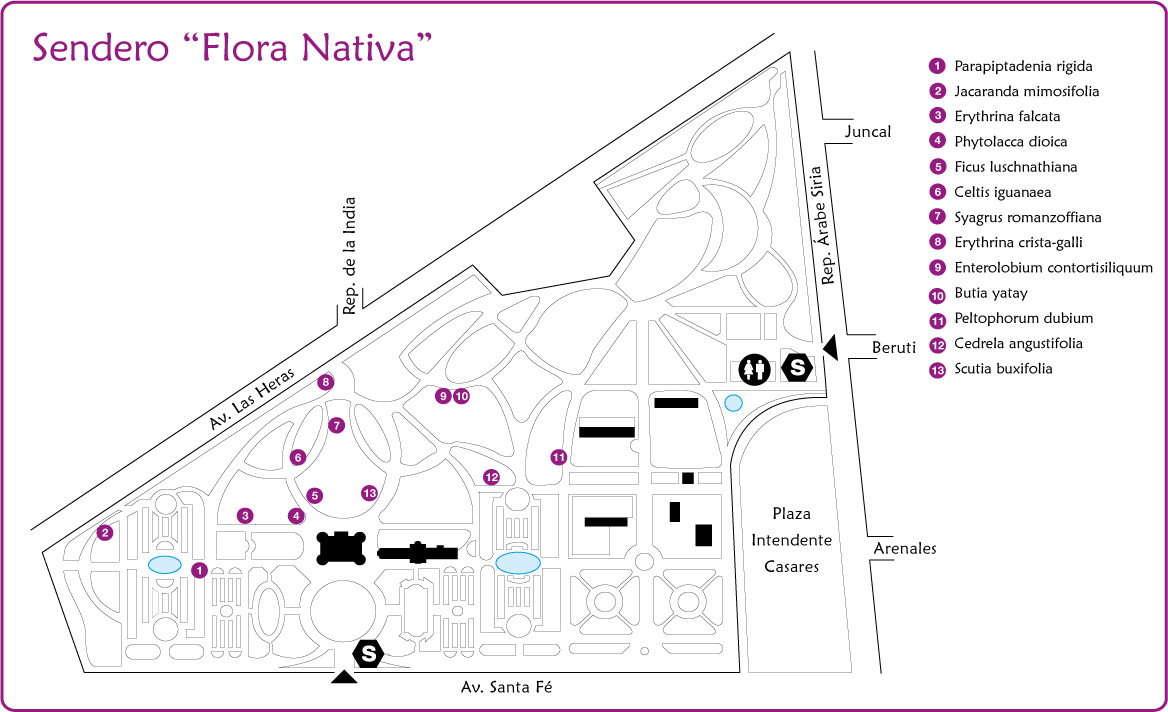
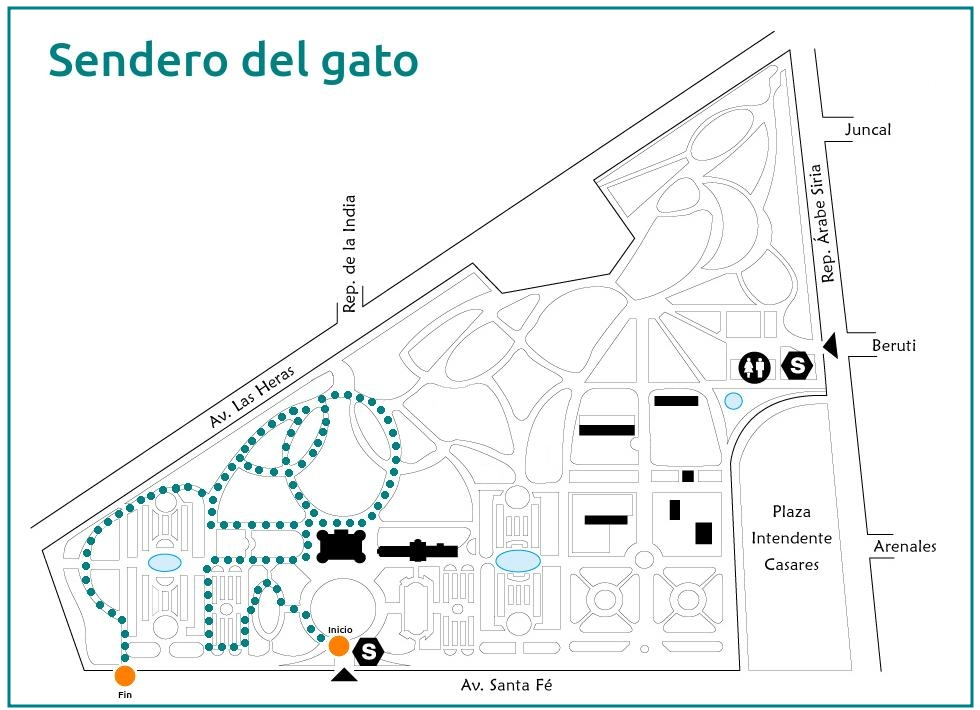
Modifica estilos de mapa y cambia imagen de contacto

diff --git a/index.html b/index.html
@@ -93,7 +93,6 @@
     <a href="#projects" class="btn btn-primary js-scroll-trigger">Seguir</a><br></br>
     </div>
    </div>
-   <!--img src="img/ipad.png" class="img-fluid" alt=""-->
   </div>
  </section>
 
@@ -175,7 +174,9 @@
        <!-- Featured Project Row -->
        <div class="row align-items-center no-gutters mb-4 mb-lg-5">
         <div class="col-xl-8 col-lg-7">
-         <img class="mapa-img" src="img/mapa.jpg" alt="">
+            <a href="#sendero">
+              <img border="0" src="img/mapa.jpg" class="mapa-img">
+            </a>
         </div>
        </div>
   </section>
@@ -191,7 +192,7 @@
         <div class="carousel-item active">
           <img class="d-block" src="img/sendero/IMG_001.jpg">
           <div class="carousel-caption d-none d-md-block">
-            <h5>Comienzo</h5>
+            <h5>Inicio</h5>
           </div>
         </div>
         <div class="carousel-item">
@@ -241,9 +242,6 @@
         </div>
         <div class="carousel-item">
           <img class="d-block" src="img/sendero/IMG_017.jpg">
-        </div>
-        <div class="carousel-item">
-          <img class="d-block" src="img/sendero/IMG_018.jpg">
         </div>
         <div class="carousel-item">
           <img class="d-block" src="img/sendero/IMG_019.jpg">
@@ -480,9 +478,6 @@
           <img class="d-block" src="img/sendero/IMG_096.jpg">
         </div>
         <div class="carousel-item">
-          <img class="d-block" src="img/sendero/IMG_097.jpg">
-        </div>
-        <div class="carousel-item">
           <img class="d-block" src="img/sendero/IMG_098.jpg">
         </div>
         <div class="carousel-item">
@@ -510,9 +505,6 @@
           <img class="d-block" src="img/sendero/IMG_106.jpg">
         </div>
         <div class="carousel-item">
-          <img class="d-block" src="img/sendero/IMG_107.jpg">
-        </div>
-        <div class="carousel-item">
           <img class="d-block" src="img/sendero/IMG_108.jpg">
         </div>
         <div class="carousel-item">
@@ -529,6 +521,9 @@
         </div>
         <div class="carousel-item">
           <img class="d-block" src="img/sendero/IMG_113.jpg">
+          <div class="carousel-caption d-none d-md-block">
+              <h5>Fin</h5>
+          </div>
         </div>
        
       </div>

diff --git a/css/grayscale.css b/css/grayscale.css
@@ -210,14 +210,10 @@
   }
 }
 
-.bg-mapa-section {
-  background: linear-gradient(to bottom, #76887d 0%, rgba(228, 228, 228, 0.9) 75%, rgb(255, 255, 255) 100%);
-}
-
 .signup-section {
   padding: 10rem 0 1rem;
-  background: -webkit-gradient(linear, left top, left bottom, from(rgba(22, 22, 22, 0.1)), color-stop(75%, rgba(22, 22, 22, 0.5)), to(#161616)), url("../img/bg-signup.jpg");
-  background: linear-gradient(to bottom, rgba(22, 22, 22, 0.1) 0%, rgba(22, 22, 22, 0.5) 75%, #161616 100%), url("../img/bg-signup.jpg");
+  background: -webkit-gradient(linear, left top, left bottom, from(rgba(22, 22, 22, 0.1)), color-stop(75%, rgba(22, 22, 22, 0.5)), to(#161616)), url("../img/bg-masthead.jpg");
+  background: linear-gradient(to bottom, rgba(22, 22, 22, 0.1) 0%, rgba(22, 22, 22, 0.5) 75%, #161616 100%), url("../img/bg-masthead.jpg");
   background-position: center;
   background-repeat: no-repeat;
   background-attachment: scroll;
@@ -313,4 +309,5 @@ footer {
 .mapa-img {
   padding-top: 4rem;
   padding-bottom: 2rem;
+  padding-left: 4rem;
 }

diff --git a/css/carousel.css b/css/carousel.css
@@ -3,8 +3,8 @@
 
 /* Carousel base class */
 .carousel {
-    padding-top: 4rem;
-    padding-bottom: 4rem;
+    padding-top: 6rem;
+    padding-bottom: 6rem;
     background-color: rgb(34, 37, 19);
 }
 
